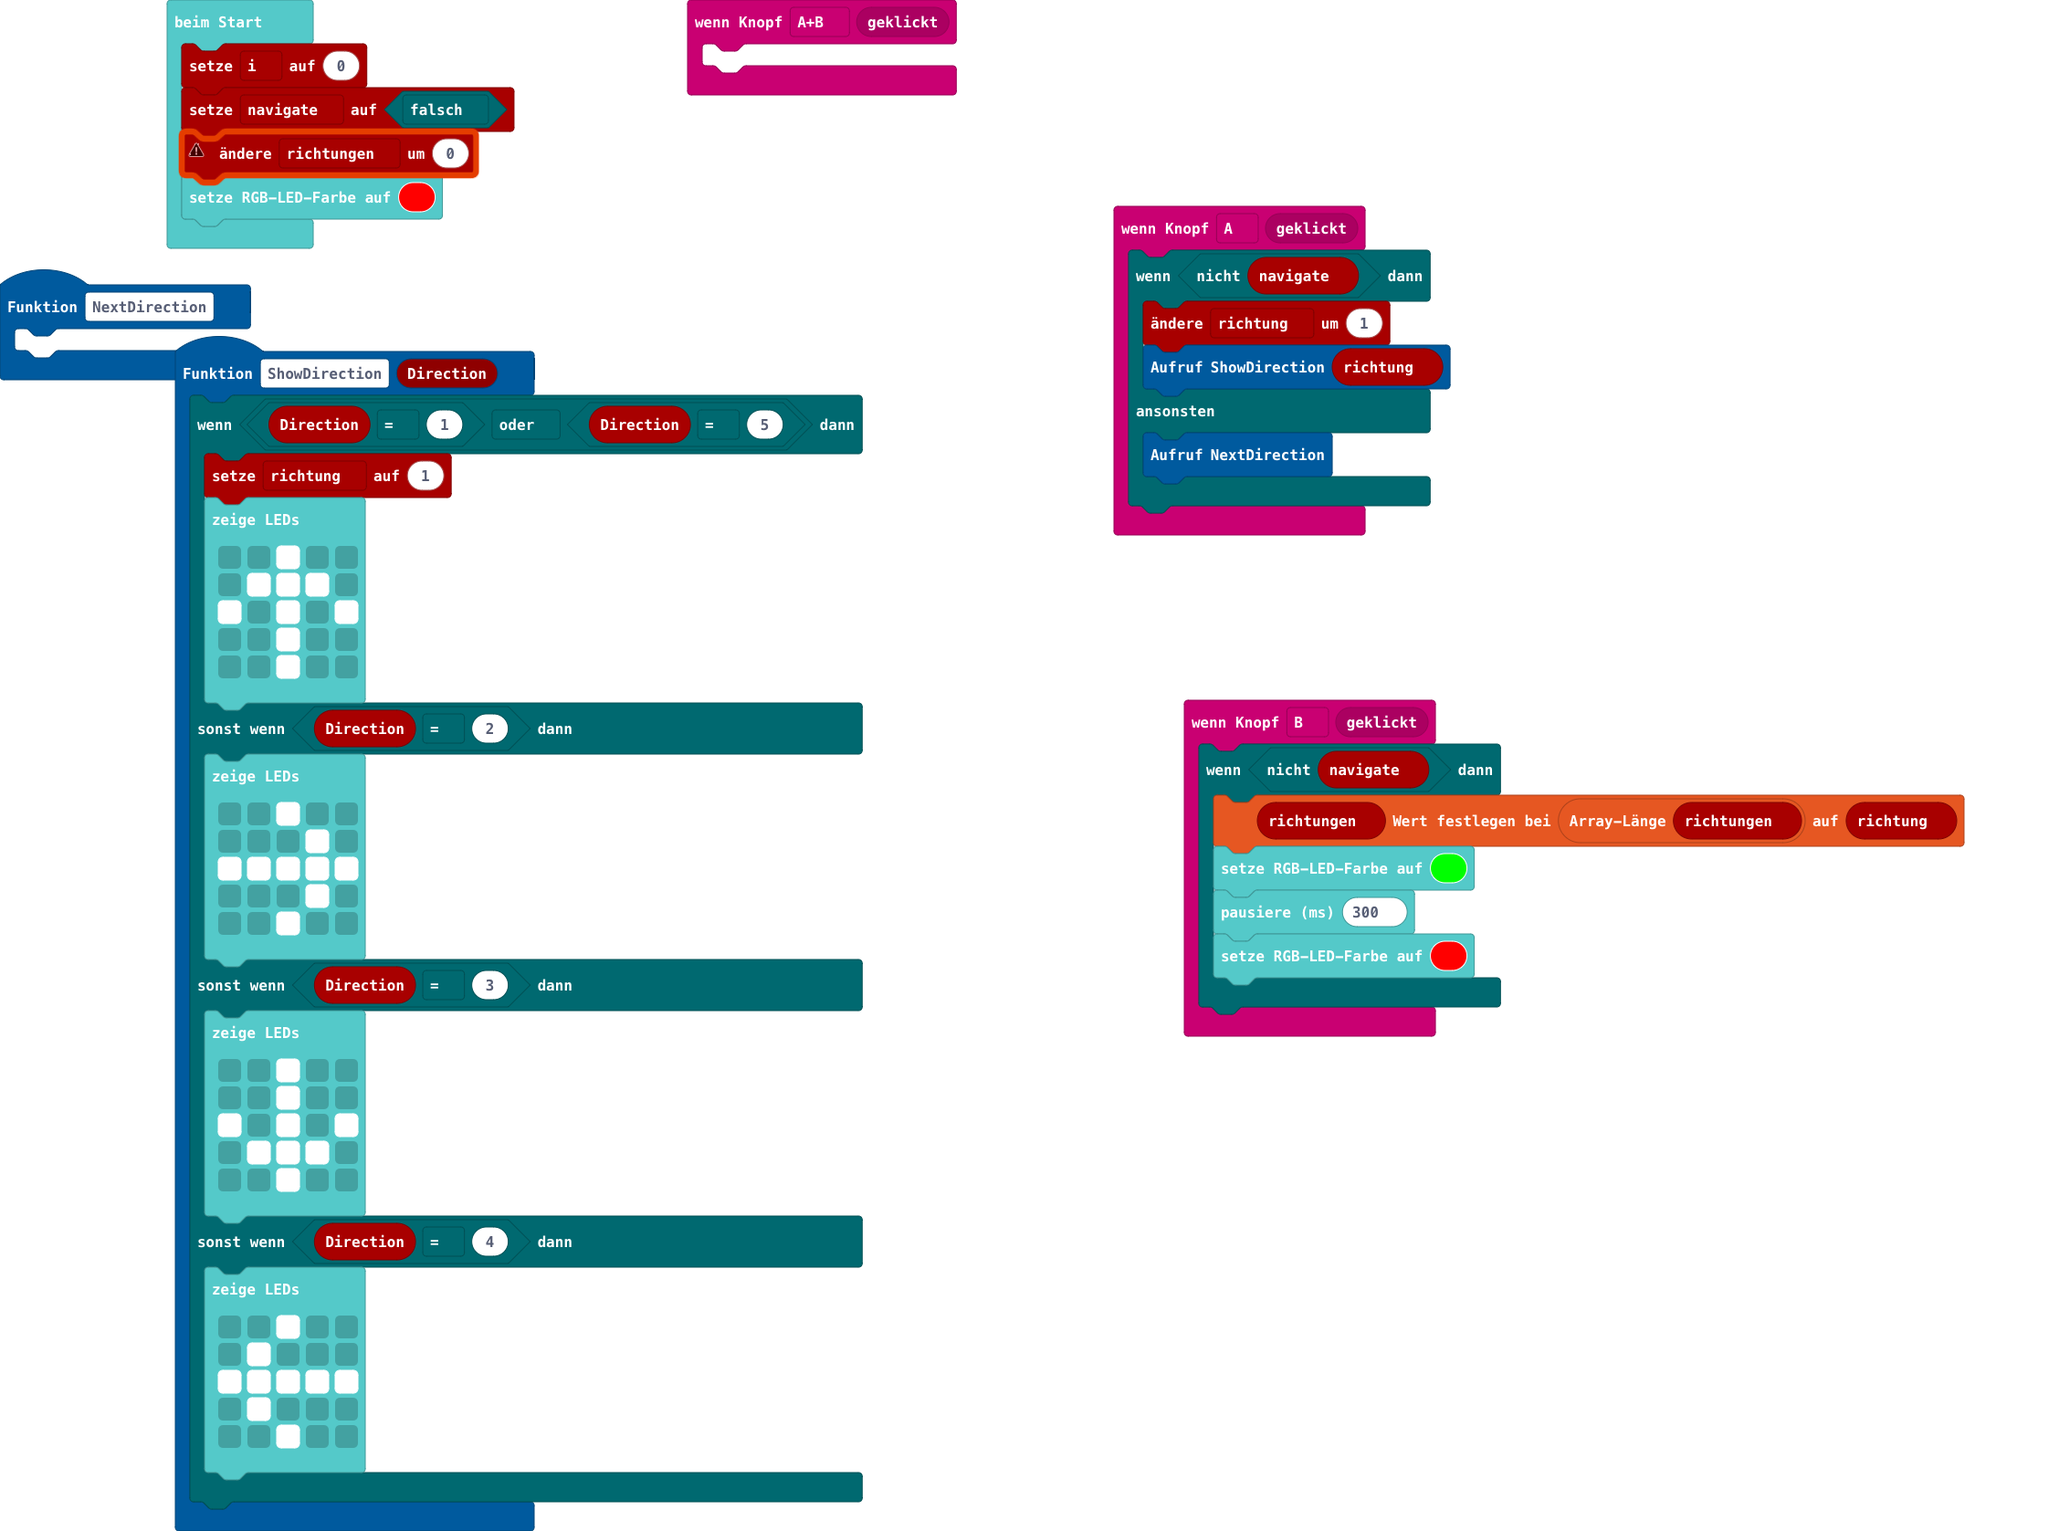
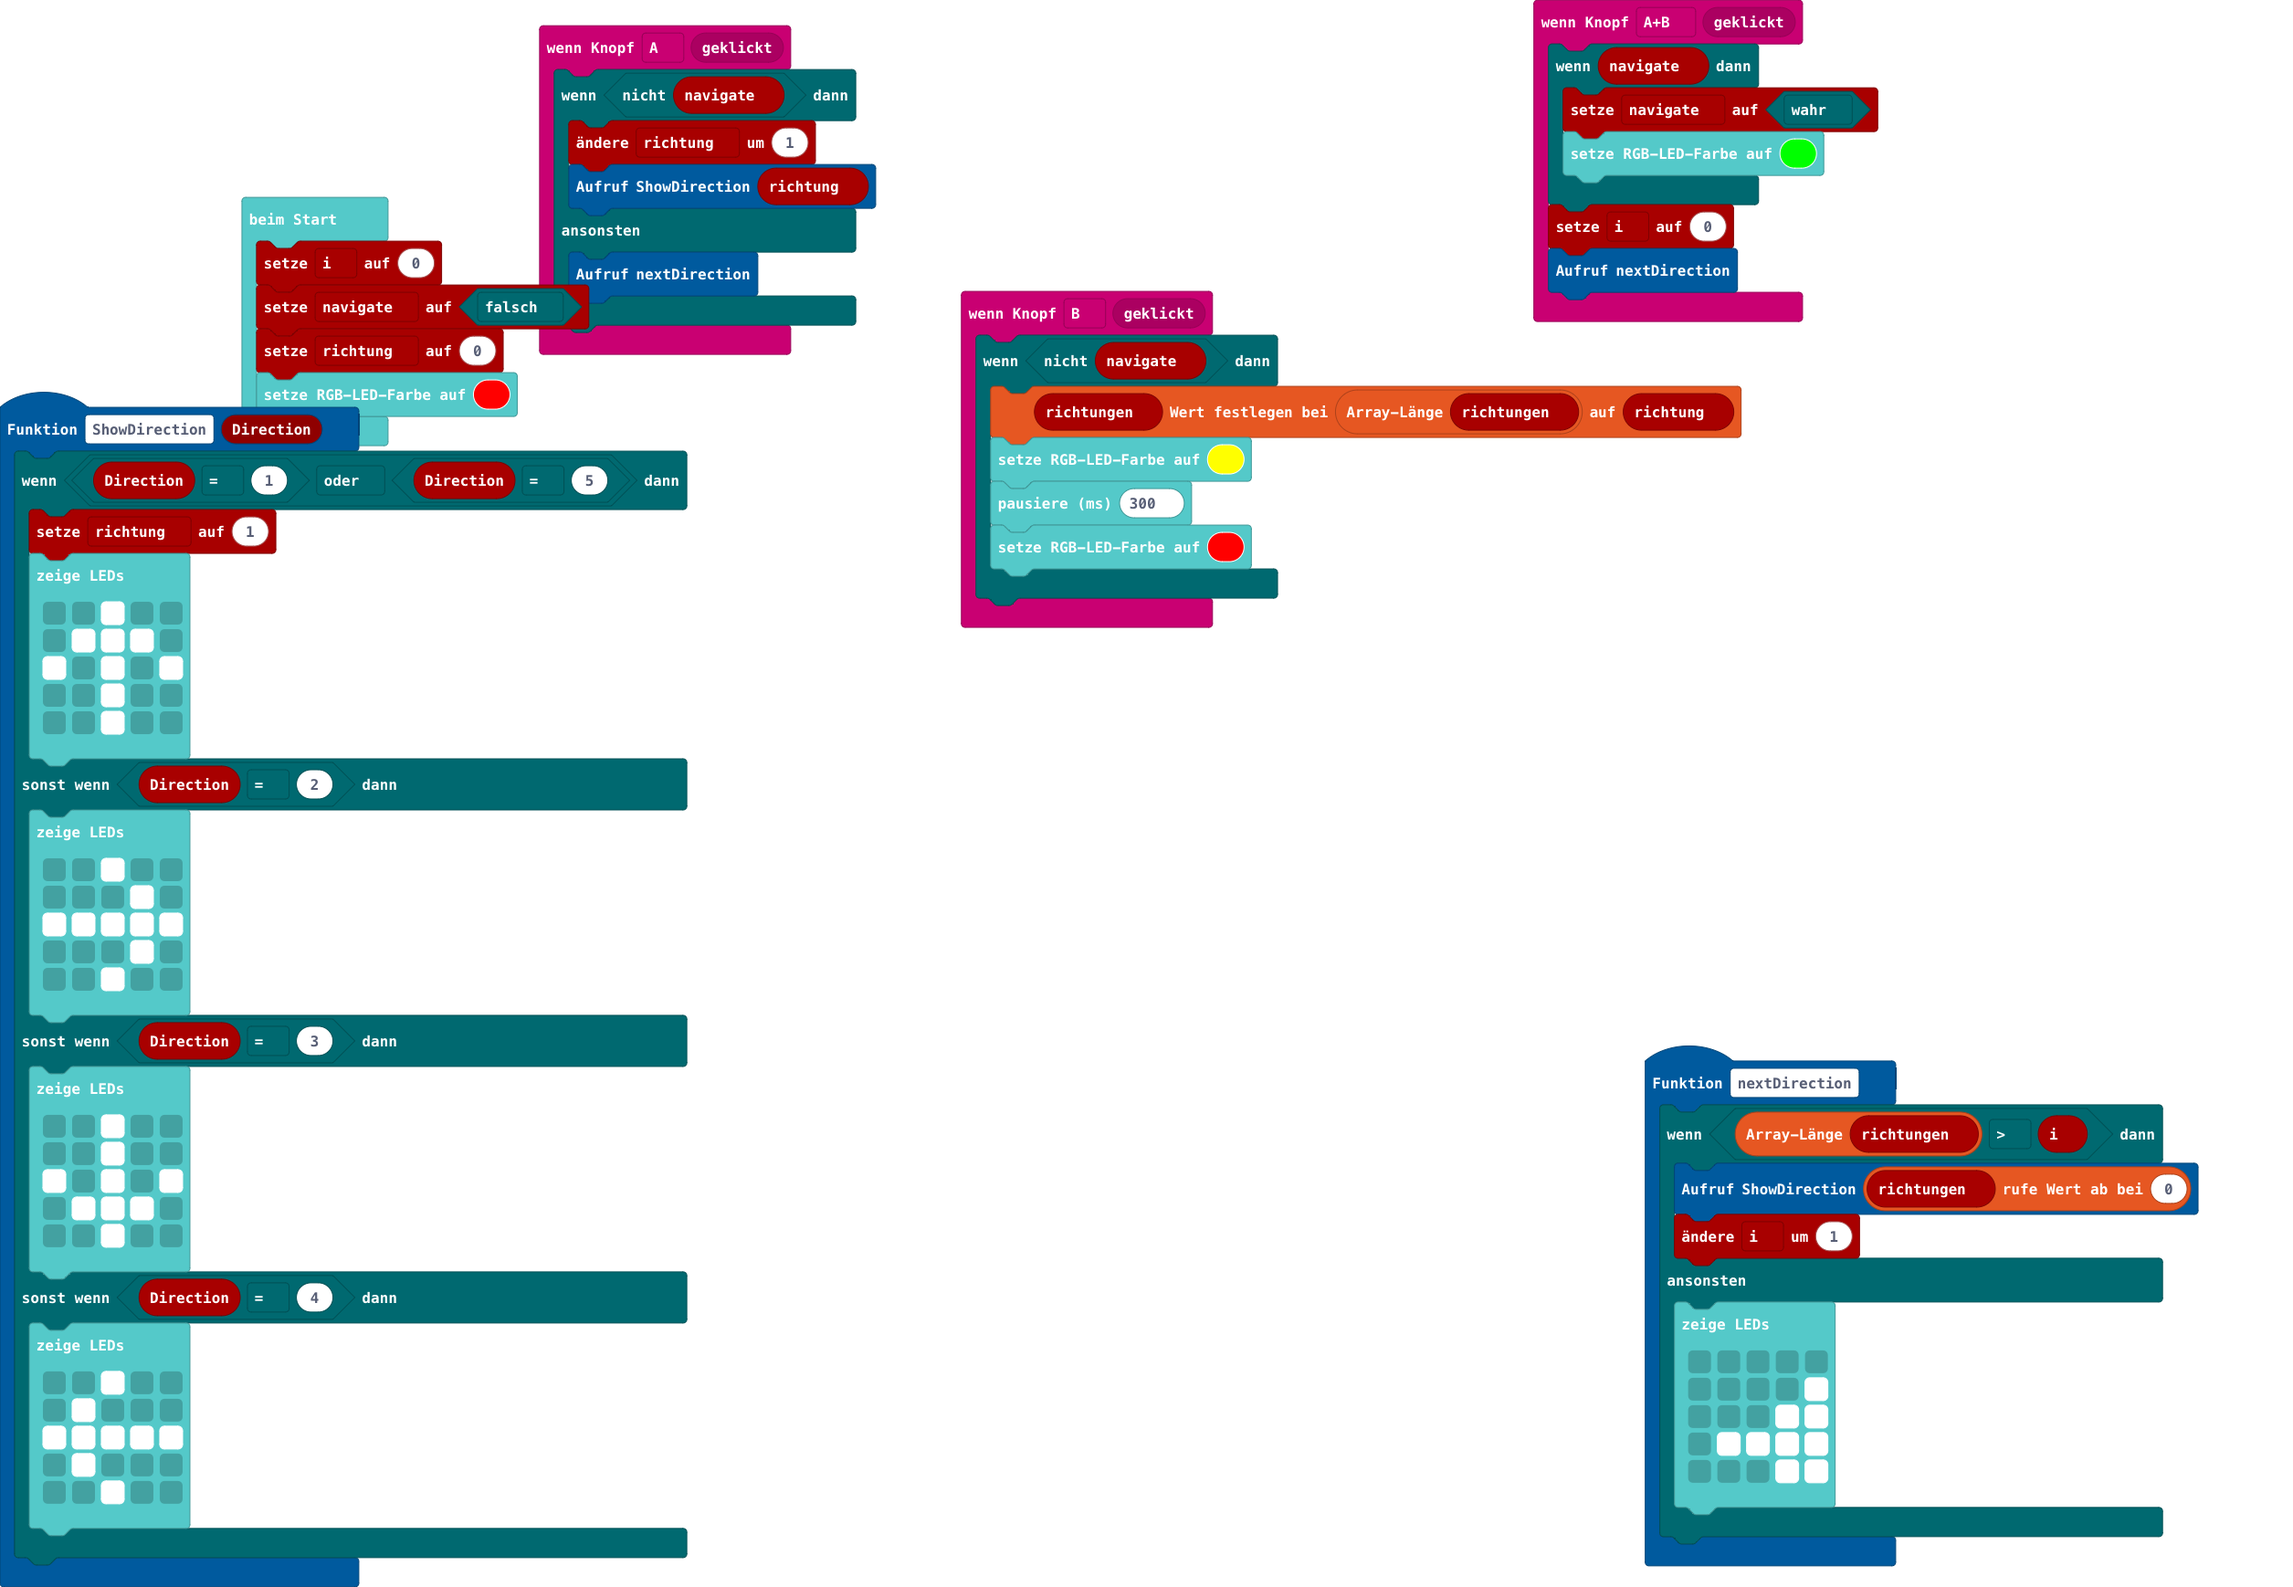
Aktualisiere main.blocks, main.ts

diff --git a/main.ts b/main.ts
@@ -3,23 +3,25 @@ input.onButtonEvent(Button.A, input.buttonEventClick(), function () {
         richtung += 1
         ShowDirection(richtung)
     } else {
-        NextDirection()
+        nextDirection()
     }
 })
 input.onButtonEvent(Button.AB, input.buttonEventClick(), function () {
-	
+    if (navigate) {
+        navigate = true
+        basic.setLedColor(0x00ff00)
+    }
+    i = 0
+    nextDirection()
 })
 input.onButtonEvent(Button.B, input.buttonEventClick(), function () {
     if (!(navigate)) {
         richtungen[richtungen.length] = richtung
-        basic.setLedColor(0x00ff00)
+        basic.setLedColor(0xffff00)
         basic.pause(300)
         basic.setLedColor(0xff0000)
     }
 })
-function NextDirection () {
-	
-}
 function ShowDirection (Direction2: number) {
     if (Direction2 == 1 || Direction2 == 5) {
         richtung = 1
@@ -56,10 +58,25 @@ function ShowDirection (Direction2: number) {
             `)
     }
 }
-let richtung = 0
+function nextDirection () {
+    if (richtungen.length > i) {
+        ShowDirection(richtungen[0])
+        i += 1
+    } else {
+        basic.showLeds(`
+            . . . . .
+            . . . . #
+            . . . # #
+            . # # # #
+            . . . # #
+            `)
+    }
+}
 let richtungen: number[] = []
+let richtung = 0
 let navigate = false
 let i = 0
+i = 0
 navigate = false
-richtungen += 0
+richtung = 0
 basic.setLedColor(0xff0000)
